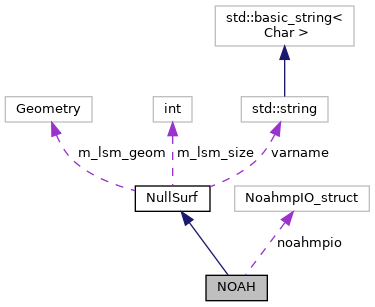
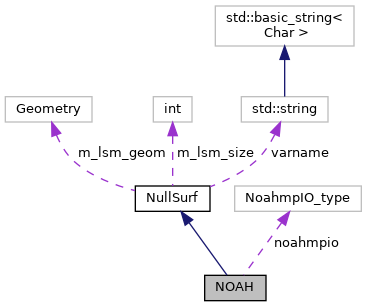
Deployed from erf-model/ERF

diff --git a/classNOAH.html b/classNOAH.html
@@ -106,13 +106,13 @@ Collaboration diagram for NOAH:</div>
 <div class="dyncontent">
 <div class="center"><img src="classNOAH__coll__graph.png" border="0" usemap="#aNOAH_coll__map" alt="Collaboration graph"/></div>
 <map name="aNOAH_coll__map" id="aNOAH_coll__map">
-<area shape="rect" title=" " alt="" coords="206,275,267,301"/>
+<area shape="rect" title=" " alt="" coords="205,275,266,301"/>
 <area shape="rect" href="classNullSurf.html" title=" " alt="" coords="135,185,210,212"/>
 <area shape="rect" title=" " alt="" coords="5,96,92,123"/>
 <area shape="rect" title=" " alt="" coords="153,96,192,123"/>
 <area shape="rect" title=" " alt="" coords="241,96,328,123"/>
 <area shape="rect" title=" " alt="" coords="215,5,354,47"/>
-<area shape="rect" title=" " alt="" coords="235,185,369,212"/>
+<area shape="rect" title=" " alt="" coords="235,185,361,212"/>
 </map>
 <center><span class="legend">[<a target="top" href="graph_legend.html">legend</a>]</span></center></div>
 <table class="memberdecls">
@@ -154,8 +154,8 @@ Public Member Functions</h2></td></tr>
 </table><table class="memberdecls">
 <tr class="heading"><td colspan="2"><h2 class="groupheader"><a name="pri-attribs"></a>
 Private Attributes</h2></td></tr>
-<tr class="memitem:ab6549b86a2408dccbb661e315c51e24c"><td class="memItemLeft" align="right" valign="top">NoahmpIO_struct&#160;</td><td class="memItemRight" valign="bottom"><a class="el" href="classNOAH.html#ab6549b86a2408dccbb661e315c51e24c">noahmpio</a></td></tr>
-<tr class="separator:ab6549b86a2408dccbb661e315c51e24c"><td class="memSeparator" colspan="2">&#160;</td></tr>
+<tr class="memitem:ada684270156aecf6b9dbbb6b01b7ce97"><td class="memItemLeft" align="right" valign="top">NoahmpIO_type&#160;</td><td class="memItemRight" valign="bottom"><a class="el" href="classNOAH.html#ada684270156aecf6b9dbbb6b01b7ce97">noahmpio</a></td></tr>
+<tr class="separator:ada684270156aecf6b9dbbb6b01b7ce97"><td class="memSeparator" colspan="2">&#160;</td></tr>
 </table>
 <h2 class="groupheader">Constructor &amp; Destructor Documentation</h2>
 <a id="a6d6b758df3016f4583ca2341ccb07e97"></a>
@@ -260,21 +260,43 @@ Private Attributes</h2></td></tr>
 <div class="line"><a name="l00020"></a><span class="lineno">   20</span>&#160;<span class="comment">     * noahmpio.xend = 4;</span></div>
 <div class="line"><a name="l00021"></a><span class="lineno">   21</span>&#160;<span class="comment">     * noahmpio.ystart = 1;</span></div>
 <div class="line"><a name="l00022"></a><span class="lineno">   22</span>&#160;<span class="comment">     * noahmpio.yend = 2;</span></div>
-<div class="line"><a name="l00023"></a><span class="lineno">   23</span>&#160;<span class="comment">     *</span></div>
-<div class="line"><a name="l00024"></a><span class="lineno">   24</span>&#160;<span class="comment">     */</span></div>
-<div class="line"><a name="l00025"></a><span class="lineno">   25</span>&#160; </div>
-<div class="line"><a name="l00026"></a><span class="lineno">   26</span>&#160;    NoahmpIOVarInitDefault(&amp;<a class="code" href="classNOAH.html#ab6549b86a2408dccbb661e315c51e24c">noahmpio</a>);</div>
-<div class="line"><a name="l00027"></a><span class="lineno">   27</span>&#160;    NoahmpInitMain(&amp;<a class="code" href="classNOAH.html#ab6549b86a2408dccbb661e315c51e24c">noahmpio</a>);</div>
-<div class="line"><a name="l00028"></a><span class="lineno">   28</span>&#160; </div>
-<div class="line"><a name="l00029"></a><span class="lineno">   29</span>&#160;    amrex::Print() &lt;&lt; <span class="stringliteral">&quot;Noahmp IO Initialized&quot;</span> &lt;&lt; std::endl;</div>
-<div class="line"><a name="l00030"></a><span class="lineno">   30</span>&#160;};</div>
-<div class="ttc" id="aclassNOAH_html_ab6549b86a2408dccbb661e315c51e24c"><div class="ttname"><a href="classNOAH.html#ab6549b86a2408dccbb661e315c51e24c">NOAH::noahmpio</a></div><div class="ttdeci">NoahmpIO_struct noahmpio</div><div class="ttdef"><b>Definition:</b> ERF_NOAH.H:38</div></div>
+<div class="line"><a name="l00023"></a><span class="lineno">   23</span>&#160;<span class="comment">     * noahmpio.nsoil = 1;</span></div>
+<div class="line"><a name="l00024"></a><span class="lineno">   24</span>&#160;<span class="comment">     * noahmpio.nsnow = 3;</span></div>
+<div class="line"><a name="l00025"></a><span class="lineno">   25</span>&#160;<span class="comment">     *</span></div>
+<div class="line"><a name="l00026"></a><span class="lineno">   26</span>&#160;<span class="comment">     * noahmpio.ids = 1;</span></div>
+<div class="line"><a name="l00027"></a><span class="lineno">   27</span>&#160;<span class="comment">     * noahmpio.ide = 1;</span></div>
+<div class="line"><a name="l00028"></a><span class="lineno">   28</span>&#160;<span class="comment">     * noahmpio.ims = 1;</span></div>
+<div class="line"><a name="l00029"></a><span class="lineno">   29</span>&#160;<span class="comment">     * noahmpio.ime = 1;</span></div>
+<div class="line"><a name="l00030"></a><span class="lineno">   30</span>&#160;<span class="comment">     * noahmpio.its = 1;</span></div>
+<div class="line"><a name="l00031"></a><span class="lineno">   31</span>&#160;<span class="comment">     * noahmpio.ite = 1;</span></div>
+<div class="line"><a name="l00032"></a><span class="lineno">   32</span>&#160;<span class="comment">     *</span></div>
+<div class="line"><a name="l00033"></a><span class="lineno">   33</span>&#160;<span class="comment">     * noahmpio.jds = 1;</span></div>
+<div class="line"><a name="l00034"></a><span class="lineno">   34</span>&#160;<span class="comment">     * noahmpio.jde = 1;</span></div>
+<div class="line"><a name="l00035"></a><span class="lineno">   35</span>&#160;<span class="comment">     * noahmpio.jms = 1;</span></div>
+<div class="line"><a name="l00036"></a><span class="lineno">   36</span>&#160;<span class="comment">     * noahmpio.jme = 1;</span></div>
+<div class="line"><a name="l00037"></a><span class="lineno">   37</span>&#160;<span class="comment">     * noahmpio.jts = 1;</span></div>
+<div class="line"><a name="l00038"></a><span class="lineno">   38</span>&#160;<span class="comment">     * noahmpio.jte = 1;</span></div>
+<div class="line"><a name="l00039"></a><span class="lineno">   39</span>&#160;<span class="comment">     *</span></div>
+<div class="line"><a name="l00040"></a><span class="lineno">   40</span>&#160;<span class="comment">     * noahmpio.kds = 1;</span></div>
+<div class="line"><a name="l00041"></a><span class="lineno">   41</span>&#160;<span class="comment">     * noahmpio.kde = 1;</span></div>
+<div class="line"><a name="l00042"></a><span class="lineno">   42</span>&#160;<span class="comment">     * noahmpio.kms = 1;</span></div>
+<div class="line"><a name="l00043"></a><span class="lineno">   43</span>&#160;<span class="comment">     * noahmpio.kme = 1;</span></div>
+<div class="line"><a name="l00044"></a><span class="lineno">   44</span>&#160;<span class="comment">     * noahmpio.kts = 1;</span></div>
+<div class="line"><a name="l00045"></a><span class="lineno">   45</span>&#160;<span class="comment">     * noahmpio.kte = 1;</span></div>
+<div class="line"><a name="l00046"></a><span class="lineno">   46</span>&#160;<span class="comment">     */</span></div>
+<div class="line"><a name="l00047"></a><span class="lineno">   47</span>&#160; </div>
+<div class="line"><a name="l00048"></a><span class="lineno">   48</span>&#160;    NoahmpIOVarInitDefault(&amp;<a class="code" href="classNOAH.html#ada684270156aecf6b9dbbb6b01b7ce97">noahmpio</a>);</div>
+<div class="line"><a name="l00049"></a><span class="lineno">   49</span>&#160;    NoahmpInitMain(&amp;<a class="code" href="classNOAH.html#ada684270156aecf6b9dbbb6b01b7ce97">noahmpio</a>);</div>
+<div class="line"><a name="l00050"></a><span class="lineno">   50</span>&#160; </div>
+<div class="line"><a name="l00051"></a><span class="lineno">   51</span>&#160;    amrex::Print() &lt;&lt; <span class="stringliteral">&quot;Noahmp IO Initialized&quot;</span> &lt;&lt; std::endl;</div>
+<div class="line"><a name="l00052"></a><span class="lineno">   52</span>&#160;};</div>
+<div class="ttc" id="aclassNOAH_html_ada684270156aecf6b9dbbb6b01b7ce97"><div class="ttname"><a href="classNOAH.html#ada684270156aecf6b9dbbb6b01b7ce97">NOAH::noahmpio</a></div><div class="ttdeci">NoahmpIO_type noahmpio</div><div class="ttdef"><b>Definition:</b> ERF_NOAH.H:37</div></div>
 </div><!-- fragment -->
 </div>
 </div>
 <h2 class="groupheader">Member Data Documentation</h2>
-<a id="ab6549b86a2408dccbb661e315c51e24c"></a>
-<h2 class="memtitle"><span class="permalink"><a href="#ab6549b86a2408dccbb661e315c51e24c">&#9670;&nbsp;</a></span>noahmpio</h2>
+<a id="ada684270156aecf6b9dbbb6b01b7ce97"></a>
+<h2 class="memtitle"><span class="permalink"><a href="#ada684270156aecf6b9dbbb6b01b7ce97">&#9670;&nbsp;</a></span>noahmpio</h2>
 
 <div class="memitem">
 <div class="memproto">
@@ -283,7 +305,7 @@ Private Attributes</h2></td></tr>
   <td class="mlabels-left">
       <table class="memname">
         <tr>
-          <td class="memname">NoahmpIO_struct NOAH::noahmpio</td>
+          <td class="memname">NoahmpIO_type NOAH::noahmpio</td>
         </tr>
       </table>
   </td>

diff --git a/ERF__NOAH_8H_source.html b/ERF__NOAH_8H_source.html
@@ -119,14 +119,13 @@ $(document).ready(function(){initNavTree('ERF__NOAH_8H_source.html',''); initRes
 <div class="line"><a name="l00031"></a><span class="lineno">   31</span>&#160;          <span class="keyword">const</span> amrex::Geometry&amp; geom,</div>
 <div class="line"><a name="l00032"></a><span class="lineno">   32</span>&#160;          <span class="keyword">const</span> amrex::Real&amp; dt) <span class="keyword">override</span>;</div>
 <div class="line"><a name="l00033"></a><span class="lineno">   33</span>&#160; </div>
-<div class="line"><a name="l00034"></a><span class="lineno">   34</span>&#160; </div>
-<div class="line"><a name="l00035"></a><span class="lineno">   35</span>&#160;<span class="keyword">private</span>:</div>
-<div class="line"><a name="l00036"></a><span class="lineno">   36</span>&#160; </div>
-<div class="line"><a name="l00037"></a><span class="lineno">   37</span>&#160;   <span class="comment">// C++ variable for NoahmpIO struct</span></div>
-<div class="line"><a name="l00038"></a><span class="lineno"><a class="line" href="classNOAH.html#ab6549b86a2408dccbb661e315c51e24c">   38</a></span>&#160;   NoahmpIO_struct <a class="code" href="classNOAH.html#ab6549b86a2408dccbb661e315c51e24c">noahmpio</a>;</div>
-<div class="line"><a name="l00039"></a><span class="lineno">   39</span>&#160; </div>
-<div class="line"><a name="l00040"></a><span class="lineno">   40</span>&#160;};</div>
-<div class="line"><a name="l00041"></a><span class="lineno">   41</span>&#160;<span class="preprocessor">#endif</span></div>
+<div class="line"><a name="l00034"></a><span class="lineno">   34</span>&#160;<span class="keyword">private</span>:</div>
+<div class="line"><a name="l00035"></a><span class="lineno">   35</span>&#160; </div>
+<div class="line"><a name="l00036"></a><span class="lineno">   36</span>&#160;   <span class="comment">// C++ variable for NoahmpIO type</span></div>
+<div class="line"><a name="l00037"></a><span class="lineno"><a class="line" href="classNOAH.html#ada684270156aecf6b9dbbb6b01b7ce97">   37</a></span>&#160;   NoahmpIO_type <a class="code" href="classNOAH.html#ada684270156aecf6b9dbbb6b01b7ce97">noahmpio</a>;</div>
+<div class="line"><a name="l00038"></a><span class="lineno">   38</span>&#160; </div>
+<div class="line"><a name="l00039"></a><span class="lineno">   39</span>&#160;};</div>
+<div class="line"><a name="l00040"></a><span class="lineno">   40</span>&#160;<span class="preprocessor">#endif</span></div>
 <div class="ttc" id="aERF__Constants_8H_html"><div class="ttname"><a href="ERF__Constants_8H.html">ERF_Constants.H</a></div></div>
 <div class="ttc" id="aERF__DataStruct_8H_html"><div class="ttname"><a href="ERF__DataStruct_8H.html">ERF_DataStruct.H</a></div></div>
 <div class="ttc" id="aERF__IndexDefines_8H_html"><div class="ttname"><a href="ERF__IndexDefines_8H.html">ERF_IndexDefines.H</a></div></div>
@@ -134,7 +133,7 @@ $(document).ready(function(){initNavTree('ERF__NOAH_8H_source.html',''); initRes
 <div class="ttc" id="aclassNOAH_html"><div class="ttname"><a href="classNOAH.html">NOAH</a></div><div class="ttdef"><b>Definition:</b> ERF_NOAH.H:20</div></div>
 <div class="ttc" id="aclassNOAH_html_a06e64b625e4377ac8875c24a74bcb14f"><div class="ttname"><a href="classNOAH.html#a06e64b625e4377ac8875c24a74bcb14f">NOAH::~NOAH</a></div><div class="ttdeci">virtual ~NOAH()=default</div></div>
 <div class="ttc" id="aclassNOAH_html_a6d6b758df3016f4583ca2341ccb07e97"><div class="ttname"><a href="classNOAH.html#a6d6b758df3016f4583ca2341ccb07e97">NOAH::NOAH</a></div><div class="ttdeci">NOAH()</div><div class="ttdef"><b>Definition:</b> ERF_NOAH.H:23</div></div>
-<div class="ttc" id="aclassNOAH_html_ab6549b86a2408dccbb661e315c51e24c"><div class="ttname"><a href="classNOAH.html#ab6549b86a2408dccbb661e315c51e24c">NOAH::noahmpio</a></div><div class="ttdeci">NoahmpIO_struct noahmpio</div><div class="ttdef"><b>Definition:</b> ERF_NOAH.H:38</div></div>
+<div class="ttc" id="aclassNOAH_html_ada684270156aecf6b9dbbb6b01b7ce97"><div class="ttname"><a href="classNOAH.html#ada684270156aecf6b9dbbb6b01b7ce97">NOAH::noahmpio</a></div><div class="ttdeci">NoahmpIO_type noahmpio</div><div class="ttdef"><b>Definition:</b> ERF_NOAH.H:37</div></div>
 <div class="ttc" id="aclassNOAH_html_ae0ff47476a81fcce3b170eec23033c27"><div class="ttname"><a href="classNOAH.html#ae0ff47476a81fcce3b170eec23033c27">NOAH::Init</a></div><div class="ttdeci">void Init(const amrex::MultiFab &amp;cons_in, const amrex::Geometry &amp;geom, const amrex::Real &amp;dt) override</div><div class="ttdef"><b>Definition:</b> ERF_NOAH.cpp:11</div></div>
 <div class="ttc" id="aclassNullSurf_html"><div class="ttname"><a href="classNullSurf.html">NullSurf</a></div><div class="ttdef"><b>Definition:</b> ERF_NullSurf.H:8</div></div>
 </div><!-- fragment --></div><!-- contents -->

diff --git a/classNOAH-members.html b/classNOAH-members.html
@@ -102,7 +102,7 @@ $(document).ready(function(){initNavTree('classNOAH.html',''); initResizable(); 
   <tr class="even"><td class="entry"><a class="el" href="classNullSurf.html#ac722d317f14ff1793ce7a38362987513">m_lsm_geom</a></td><td class="entry"><a class="el" href="classNullSurf.html">NullSurf</a></td><td class="entry"><span class="mlabel">private</span></td></tr>
   <tr><td class="entry"><a class="el" href="classNullSurf.html#a00480a80b00d313460c898669225b2ef">m_lsm_size</a></td><td class="entry"><a class="el" href="classNullSurf.html">NullSurf</a></td><td class="entry"><span class="mlabel">private</span></td></tr>
   <tr class="even"><td class="entry"><a class="el" href="classNOAH.html#a6d6b758df3016f4583ca2341ccb07e97">NOAH</a>()</td><td class="entry"><a class="el" href="classNOAH.html">NOAH</a></td><td class="entry"><span class="mlabel">inline</span></td></tr>
-  <tr><td class="entry"><a class="el" href="classNOAH.html#ab6549b86a2408dccbb661e315c51e24c">noahmpio</a></td><td class="entry"><a class="el" href="classNOAH.html">NOAH</a></td><td class="entry"><span class="mlabel">private</span></td></tr>
+  <tr><td class="entry"><a class="el" href="classNOAH.html#ada684270156aecf6b9dbbb6b01b7ce97">noahmpio</a></td><td class="entry"><a class="el" href="classNOAH.html">NOAH</a></td><td class="entry"><span class="mlabel">private</span></td></tr>
   <tr class="even"><td class="entry"><a class="el" href="classNullSurf.html#ab6d3582e156056b1b230809fe499a0cf">NullSurf</a>()</td><td class="entry"><a class="el" href="classNullSurf.html">NullSurf</a></td><td class="entry"><span class="mlabel">inline</span></td></tr>
   <tr><td class="entry"><a class="el" href="classNullSurf.html#aad733e954aefc643ed1f2c6a1bb564ac">Update_Micro_Vars</a>(amrex::MultiFab &amp;)</td><td class="entry"><a class="el" href="classNullSurf.html">NullSurf</a></td><td class="entry"><span class="mlabel">inline</span><span class="mlabel">virtual</span></td></tr>
   <tr class="even"><td class="entry"><a class="el" href="classNullSurf.html#aec12d8aa3e358ea40f7d4371651eb73a">Update_State_Vars</a>(amrex::MultiFab &amp;)</td><td class="entry"><a class="el" href="classNullSurf.html">NullSurf</a></td><td class="entry"><span class="mlabel">inline</span><span class="mlabel">virtual</span></td></tr>

diff --git a/search/all_d.js b/search/all_d.js
@@ -58,7 +58,7 @@ var searchData=
   ['no_5fsubstep_5ffun_1707',['no_substep_fun',['../ERF__TI__no__substep__fun_8H.html#a4cad8180e91d2eabd5638651fc24bcc7',1,'ERF_TI_no_substep_fun.H']]],
   ['no_5fsubstepping_1708',['no_substepping',['../classMRISplitIntegrator.html#afa0623b638cd29d3f307d34ef5a98d0f',1,'MRISplitIntegrator']]],
   ['noah_1709',['NOAH',['../classNOAH.html#a6d6b758df3016f4583ca2341ccb07e97',1,'NOAH::NOAH()'],['../classNOAH.html',1,'NOAH']]],
-  ['noahmpio_1710',['noahmpio',['../classNOAH.html#ab6549b86a2408dccbb661e315c51e24c',1,'NOAH']]],
+  ['noahmpio_1710',['noahmpio',['../classNOAH.html#ada684270156aecf6b9dbbb6b01b7ce97',1,'NOAH']]],
   ['nominal_5fpower_1711',['nominal_power',['../classWindFarm.html#aa542d50137f25dcb568fafc483a83178',1,'WindFarm::nominal_power()'],['../classEWP.html#a00497b6ecc9493be40be6ce4f5ae02c5',1,'EWP::nominal_power()'],['../classFitch.html#afeb1ae13c307eeb71af9dfa8d97a3f7e',1,'Fitch::nominal_power()'],['../classGeneralAD.html#aeb00654d82c5f266554bd8cba035d19b',1,'GeneralAD::nominal_power()'],['../classSimpleAD.html#af9dae2d9db9de431b450e61c55a83ffe',1,'SimpleAD::nominal_power()']]],
   ['none_1712',['None',['../classABLMost.html#acf73526a7a2b05be8d48c0af94742841a6adf97f83acf6453d4a6a4b1070f3754',1,'ABLMost::None()'],['../ERF__DiffStruct_8H.html#a84e6bfbbb8e490790c506939b364f735a6adf97f83acf6453d4a6a4b1070f3754',1,'None():&#160;ERF_DiffStruct.H']]],
   ['nonhygro_5foptics_5finit_1713',['nonhygro_optics_init',['../classPhysProp.html#adce35521cf33d13c6345ac5a9586c829',1,'PhysProp']]],

diff --git a/search/variables_d.js b/search/variables_d.js
@@ -32,7 +32,7 @@ var searchData=
   ['no_5fsubstep_4723',['no_substep',['../classMRISplitIntegrator.html#abb86ebaf6ca5a42e59670d2b15549658',1,'MRISplitIntegrator']]],
   ['no_5fsubstep_5ffun_4724',['no_substep_fun',['../ERF__TI__no__substep__fun_8H.html#a4cad8180e91d2eabd5638651fc24bcc7',1,'ERF_TI_no_substep_fun.H']]],
   ['no_5fsubstepping_4725',['no_substepping',['../classMRISplitIntegrator.html#afa0623b638cd29d3f307d34ef5a98d0f',1,'MRISplitIntegrator']]],
-  ['noahmpio_4726',['noahmpio',['../classNOAH.html#ab6549b86a2408dccbb661e315c51e24c',1,'NOAH']]],
+  ['noahmpio_4726',['noahmpio',['../classNOAH.html#ada684270156aecf6b9dbbb6b01b7ce97',1,'NOAH']]],
   ['nominal_5fpower_4727',['nominal_power',['../classWindFarm.html#aa542d50137f25dcb568fafc483a83178',1,'WindFarm::nominal_power()'],['../classSimpleAD.html#af9dae2d9db9de431b450e61c55a83ffe',1,'SimpleAD::nominal_power()'],['../classGeneralAD.html#aeb00654d82c5f266554bd8cba035d19b',1,'GeneralAD::nominal_power()'],['../classFitch.html#afeb1ae13c307eeb71af9dfa8d97a3f7e',1,'Fitch::nominal_power()'],['../classEWP.html#a00497b6ecc9493be40be6ce4f5ae02c5',1,'EWP::nominal_power()']]],
   ['npcf_4728',['npcf',['../classWaterVaporSat.html#abd48ae5df93e45c8d4bab8e1e985838b',1,'WaterVaporSat']]],
   ['nradgas_4729',['nradgas',['../classRadConstants.html#acc3330716cd598dc36881b44c70687c5',1,'RadConstants']]],

diff --git a/functions_vars_n.html b/functions_vars_n.html
@@ -200,7 +200,7 @@ $(document).ready(function(){initNavTree('functions_vars_n.html',''); initResiza
 : <a class="el" href="classMRISplitIntegrator.html#afa0623b638cd29d3f307d34ef5a98d0f">MRISplitIntegrator&lt; T &gt;</a>
 </li>
 <li>noahmpio
-: <a class="el" href="classNOAH.html#ab6549b86a2408dccbb661e315c51e24c">NOAH</a>
+: <a class="el" href="classNOAH.html#ada684270156aecf6b9dbbb6b01b7ce97">NOAH</a>
 </li>
 <li>nominal_power
 : <a class="el" href="classEWP.html#a00497b6ecc9493be40be6ce4f5ae02c5">EWP</a>

diff --git a/navtreeindex7.js b/navtreeindex7.js
@@ -201,7 +201,7 @@ var NAVTREEINDEX7 =
 "classNOAH.html":[2,0,56],
 "classNOAH.html#a06e64b625e4377ac8875c24a74bcb14f":[2,0,56,1],
 "classNOAH.html#a6d6b758df3016f4583ca2341ccb07e97":[2,0,56,0],
-"classNOAH.html#ab6549b86a2408dccbb661e315c51e24c":[2,0,56,3],
+"classNOAH.html#ada684270156aecf6b9dbbb6b01b7ce97":[2,0,56,3],
 "classNOAH.html#ae0ff47476a81fcce3b170eec23033c27":[2,0,56,2],
 "classNullMoist.html":[2,0,57],
 "classNullMoist.html#a11a25944d4ddb955f74e355838b9d8b0":[2,0,57,3],

diff --git a/functions_n.html b/functions_n.html
@@ -245,7 +245,7 @@ $(document).ready(function(){initNavTree('functions_n.html',''); initResizable()
 : <a class="el" href="classNOAH.html#a6d6b758df3016f4583ca2341ccb07e97">NOAH</a>
 </li>
 <li>noahmpio
-: <a class="el" href="classNOAH.html#ab6549b86a2408dccbb661e315c51e24c">NOAH</a>
+: <a class="el" href="classNOAH.html#ada684270156aecf6b9dbbb6b01b7ce97">NOAH</a>
 </li>
 <li>nominal_power
 : <a class="el" href="classEWP.html#a00497b6ecc9493be40be6ce4f5ae02c5">EWP</a>

diff --git a/classNOAH.js b/classNOAH.js
@@ -3,5 +3,5 @@ var classNOAH =
     [ "NOAH", "classNOAH.html#a6d6b758df3016f4583ca2341ccb07e97", null ],
     [ "~NOAH", "classNOAH.html#a06e64b625e4377ac8875c24a74bcb14f", null ],
     [ "Init", "classNOAH.html#ae0ff47476a81fcce3b170eec23033c27", null ],
-    [ "noahmpio", "classNOAH.html#ab6549b86a2408dccbb661e315c51e24c", null ]
+    [ "noahmpio", "classNOAH.html#ada684270156aecf6b9dbbb6b01b7ce97", null ]
 ];
